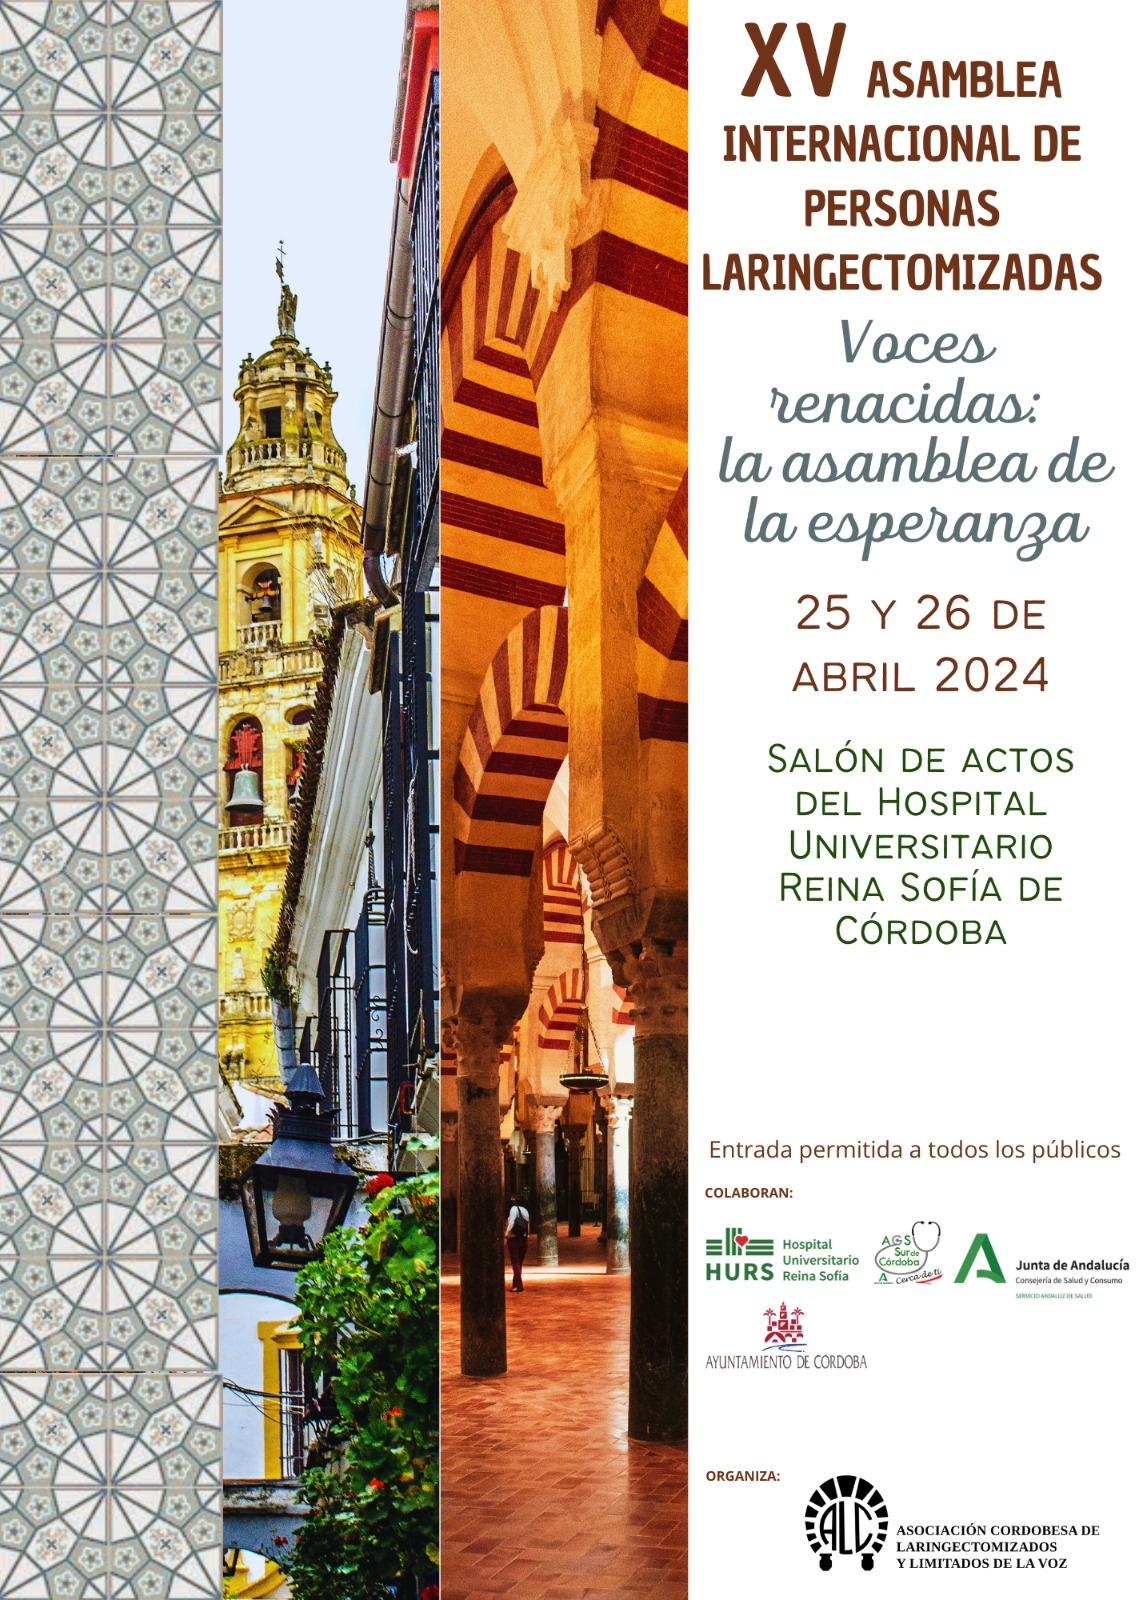
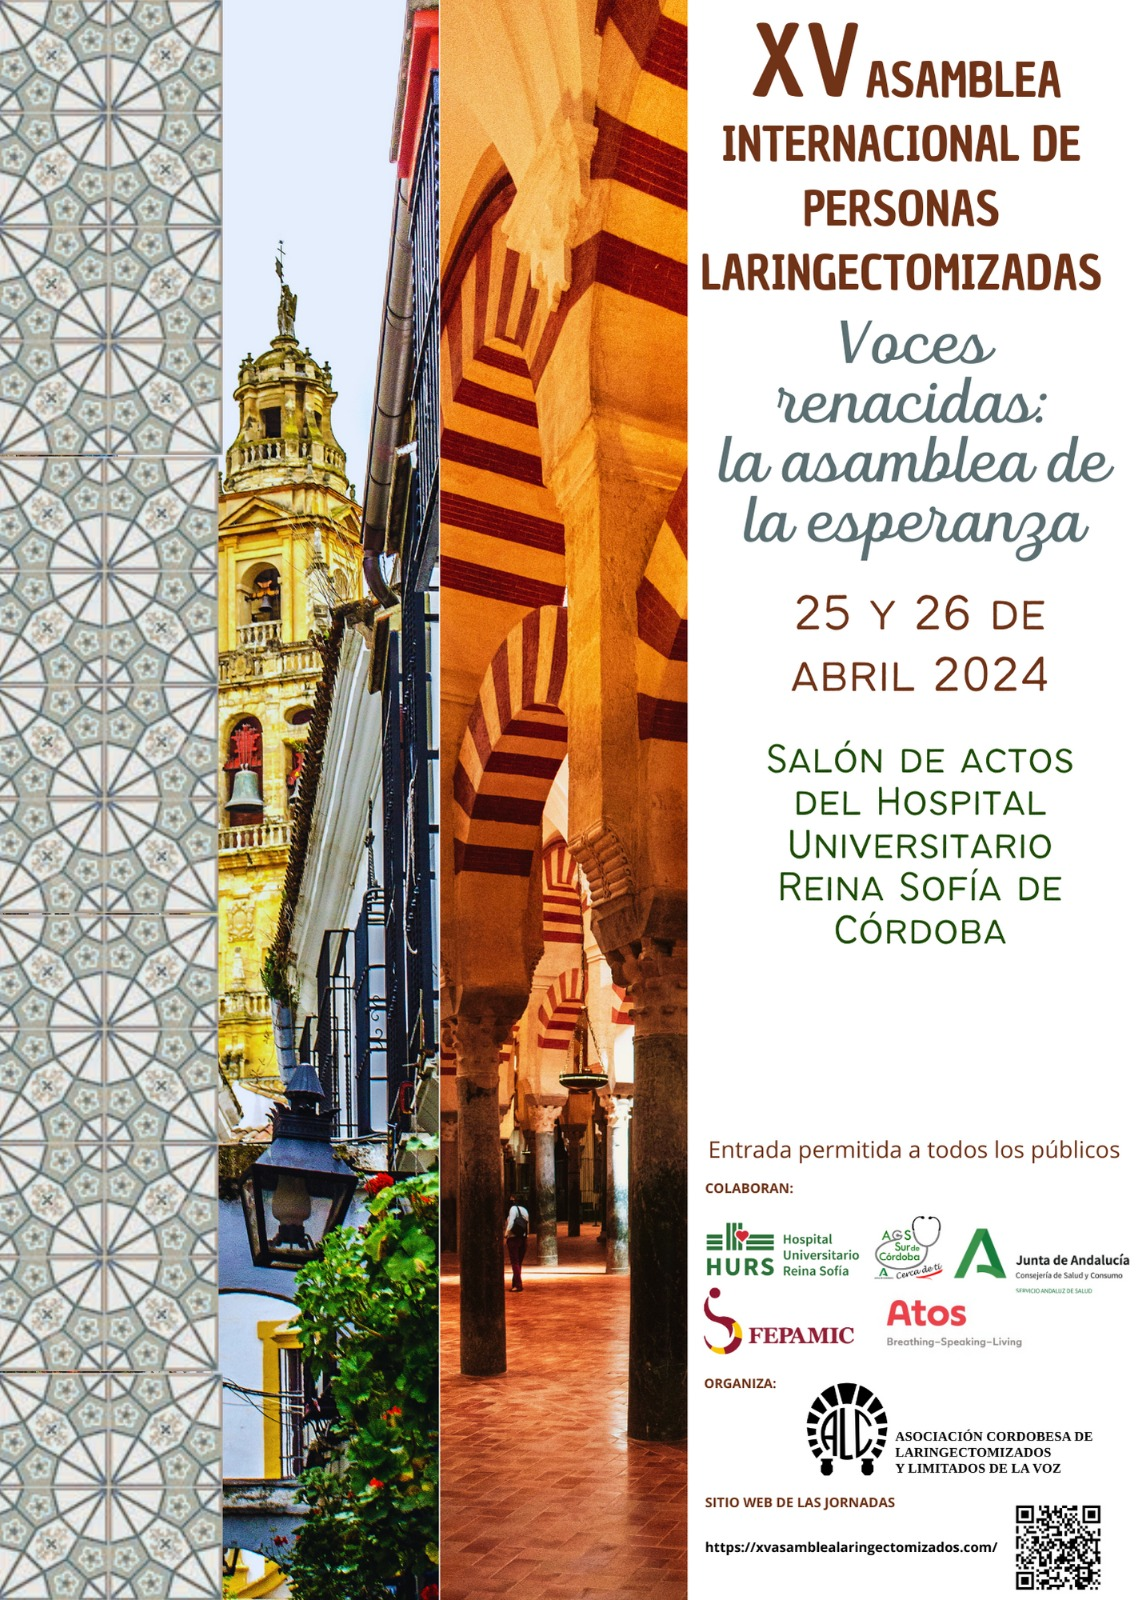
1.1 - Info Inicio

diff --git a/src/Components/Ascolar.jsx b/src/Components/Ascolar.jsx
@@ -1,18 +1,57 @@
 import cartel from '../assets/cartel.jpg';
+import logoHURS from '../assets/LogoHURS.jpg';
+import logoAGS from '../assets/LogoAGS.jpg';
+import logoJunta from '../assets/LogoJunta.jpg';
+import logoFepa from '../assets/LogoFepa.jpg';
+import logoAtos from '../assets/LogoAtos.jpg';
 
 export const Ascolar = () => {
   return (
-    <div className="Regis_divForm">
+    <div className="Regis_divForm row">
         <h1 className="text-center">ASCOLAR</h1>
         <hr />
+        <div className='col-md-5'>
           <img src={cartel} alt="Borrador Cartel" className='horario img-fluid animate__animated animate__fadeInLeft animate__slower' />
-
-
-        {/* A la derecha, poner info de ascolar y de la asamblea */}
-
+        </div>
+        <div className='col-md-7 text-center'>
+          <h3> <strong>CÓRDOBA ACOGERÁ LA XV ASAMBLEA INTERNACIONAL DE PERSONAS LARINGECTOMIZADAS: "VOCES RENACIDAS, LA ASAMBLEA DE LA ESPERANZA"</strong></h3>
+          <p className='textInicio'>
+            La provincia andaluza de Córdoba se convertirá en el epicentro de un evento trascendental que busca mejorar la calidad de vida de las personas laringectomizadas. Los días 25 y 26 de abril de 2024, el Salón de Actos del Hospital Universitario Reina Sofía será el escenario de la XV Asamblea Internacional de Personas Laringectomizadas, un encuentro dedicado a abordar aspectos cruciales para el cuidado y bienestar de estos pacientes.
+          <br /> <br />
+          Bajo el lema <strong> "Voces Renacidas, la Asamblea de la Esperanza"</strong>, esta reunión anual se presenta como una oportunidad única para pacientes, asociaciones, familiares y profesionales de la salud, en especial otorrinolaringólogos y oncólogos, de intercambiar conocimientos y experiencias en el ámbito de la laringectomía.
+          <br /> <br />
+          La <strong>XV Asamblea Internacional de Personas Laringectomizadas</strong> contará con una agenda repleta de ponencias y mesas de discusión que abordarán temas cruciales para quienes han pasado por esta intervención. El foco principal será el cuidado de los pacientes y la presentación de los últimos avances médicos destinados a mejorar significativamente su calidad de vida.
+          <br /> <br />
+          Durante las dos jornadas del evento, se ofrecerá una plataforma para que pacientes laringectomizados compartan sus experiencias y relaten cómo enfrentan su día a día tras la intervención, así como la perspectiva de sus familias. Este enfoque práctico y humano pretende arrojar luz sobre las distintas realidades que enfrentan estas personas, destacando su valentía y resiliencia.
+          <br /> <br />
+          La Asamblea Internacional de Personas Laringectomizadas se propone ser un espacio de aprendizaje, apoyo mutuo y concienciación sobre la importancia de la atención integral a los pacientes que han pasado por esta cirugía. Además, busca consolidar a la provincia de Córdoba como un punto de encuentro internacional en el ámbito de la laringectomía, promoviendo la colaboración entre profesionales y la difusión de conocimientos que redunden en el bienestar de los pacientes.
+          <br /> <br />
+          Este evento anual, que ha ganado reconocimiento a nivel internacional, refuerza el compromiso de la comunidad médica y de los pacientes con la mejora continua y la búsqueda de soluciones que permitan a quienes han pasado por una laringectomía encontrar nuevas voces y renovar la esperanza en sus vidas.
+          </p>
+         </div>
 
         <h1 className="text-center">COLABORADORES</h1>
         <hr />
+
+        <div className=" text-center">
+          <div className="row">
+            <div className="col-md-3">
+              <img src={logoHURS} alt="Logo HURS" className='imgLogo' />
+              </div>
+            <div className="col-md-2">
+              <img src={logoAGS} alt="Logo HURS" className='imgLogo' />
+            </div>
+            <div className="col-md-3">
+              <img src={logoJunta} alt="Logo HURS" className='imgLogo' />
+            </div>
+            <div className="col-md-2">
+              <img src={logoFepa} alt="Logo HURS" className='imgLogo' />
+            </div>
+            <div className="col-md-2">
+              <img src={logoAtos} alt="Logo HURS" className='imgLogo' />
+            </div>
+          </div>
+        </div>
 
 
     </div>

diff --git a/src/Components/Hoteles.jsx b/src/Components/Hoteles.jsx
@@ -51,15 +51,15 @@ export const Hoteles = () => {
             <p>
               Indicar en el mail: <br />
 
-              1. - NOMBRE Y APELLIDOS DE LAS PERSONAS QUE SE ALOJAN. <br />
+             <strong>1. - NOMBRE Y APELLIDOS DE LAS PERSONAS QUE SE ALOJAN.</strong> <br />
 
-              2. - DÍA DE LLEGADA Y SALIDA DEL HOTEL, ASÍ COMO EL TIPO DE HABITACIÓN (DOBLE O INDIVIDUAL). <br />
+             <strong>2. - DÍA DE LLEGADA Y SALIDA DEL HOTEL, ASÍ COMO EL TIPO DE HABITACIÓN (DOBLE O INDIVIDUAL).</strong>  <br />
 
-              3. - NÚMERO DE TARJETA DE CRÉDITO CON FECHA DE CADUCIDAD COMO GARANTÍA: (se usara solo si el cliente no anulara y no se presentara en el hotel, en este caso se le cargará el importe de la primera noche, así como, si el cliente anula con menos de 24 horas de anterioridad, también se le hará el cargo de la primera noche).<br />
+             <strong>3. - NÚMERO DE TARJETA DE CRÉDITO CON FECHA DE CADUCIDAD COMO GARANTÍA:</strong> (se usara solo si el cliente no anulara y no se presentara en el hotel, en este caso se le cargará el importe de la primera noche, así como, si el cliente anula con menos de 24 horas de anterioridad, también se le hará el cargo de la primera noche).<br />
 
-              4. - TELÉFONO DE CONTACTO DURANTE EL VIAJE, POR SI HAY QUE CONTACTAR. <br />
+             <strong>4. - TELÉFONO DE CONTACTO DURANTE EL VIAJE, POR SI HAY QUE CONTACTAR.</strong> <br />
 
-              5.- LAS RESERVAS DEBEN SER DIRIGIDAS VÍA MAIL, CON EL ASUNTO "ASAMBLEA INTERNACIONAL DE LARINGECTOMIZADOS DE CORDOBA ”, al siguiente mail,  <strong>director@hotelselu.com</strong>, sino se hicieran por esta vía, o faltase algún dato de los anteriores, las reservas no serán válidas.
+             <strong>5.- LAS RESERVAS DEBEN SER DIRIGIDAS VÍA MAIL</strong>, CON EL ASUNTO "ASAMBLEA INTERNACIONAL DE LARINGECTOMIZADOS DE CORDOBA ”, al siguiente mail,  <strong>director@hotelselu.com</strong>, sino se hicieran por esta vía, o faltase algún dato de los anteriores, las reservas no serán válidas.
             </p>
           </div>
         </div>

diff --git a/src/Components/Mapas.jsx b/src/Components/Mapas.jsx
@@ -63,12 +63,12 @@ export const Mapas = () => {
                     Si quieres ver la ubicación desde Google Maps, Pulse <a href="https://maps.app.goo.gl/9D69WUnB92RdRSPw6" target="_blank" rel="noreferrer">Aqui</a>
 
                     <div className='mt-4'><strong>EN AUTOBUS</strong></div> <br />
-                        - Cogiendo el Autobus Linea 5. Pulsa <a href="https://aucorsa.es/linea/5/" target="_blank" rel="noreferrer">aquí</a> para ver el recorrido y horarios. <br />
+                        - Cogiendo el Autobus Línea 5. Pulsa <a href="https://aucorsa.es/linea/5/" target="_blank" rel="noreferrer">aquí</a> para ver el recorrido y horarios. <br />
                         ---- Si estas hospedado en el <strong> Hotel Center Córdoba,  Parada 51 - Avenida América</strong> <br />
                         ---- Si estas hospedado en el <strong> Hotel Selu,  Parada 250 - República Argentina</strong><br />
                         <strong>Llegada en Parada 144 - Hospital Reina Sofía</strong>
                         <hr />
-                        - Cogiendo el Autobus Linea 2. Pulsa <a href="https://aucorsa.es/linea/2/" target="_blank" rel="noreferrer">aquí</a> para ver el recorrido y horarios. <br />
+                        - Cogiendo el Autobus Línea 2. Pulsa <a href="https://aucorsa.es/linea/2/" target="_blank" rel="noreferrer">aquí</a> para ver el recorrido y horarios. <br />
                         ---- Si estas hospedado en el <strong> Hotel Center Córdoba,  Parada 68 - Ronda Tejares (Gran Capitán)</strong> <br />
                         ---- Si estas hospedado en el <strong> Hotel Selu,  Parada 250 - República Argentina</strong> <br />
                         <strong>Llegada en Parada 143 - Hospital Reina Sofía</strong>

diff --git a/src/Components/Navbar.jsx b/src/Components/Navbar.jsx
@@ -7,7 +7,7 @@ export const Navbar = () => {
         <nav className="navbar navbar-expand-sm navbar-dark bg-dark text-center">
 
             <Link
-                className="navbar-brand px-3"
+                className="navbar-brand px-3 text-center"
                 to="/"
             >
                 Inicio

diff --git a/src/styles.css b/src/styles.css
@@ -133,3 +133,15 @@
     height: 300px;
     align-content: center;
 }
+
+.imgLogo{
+ height: 100px;
+ border-radius: 20px;
+ margin: 10px;
+}
+.textInicio{
+    text-align: justify;
+    font-size: 20px;
+    font-family: 'Tahoma';
+
+}
